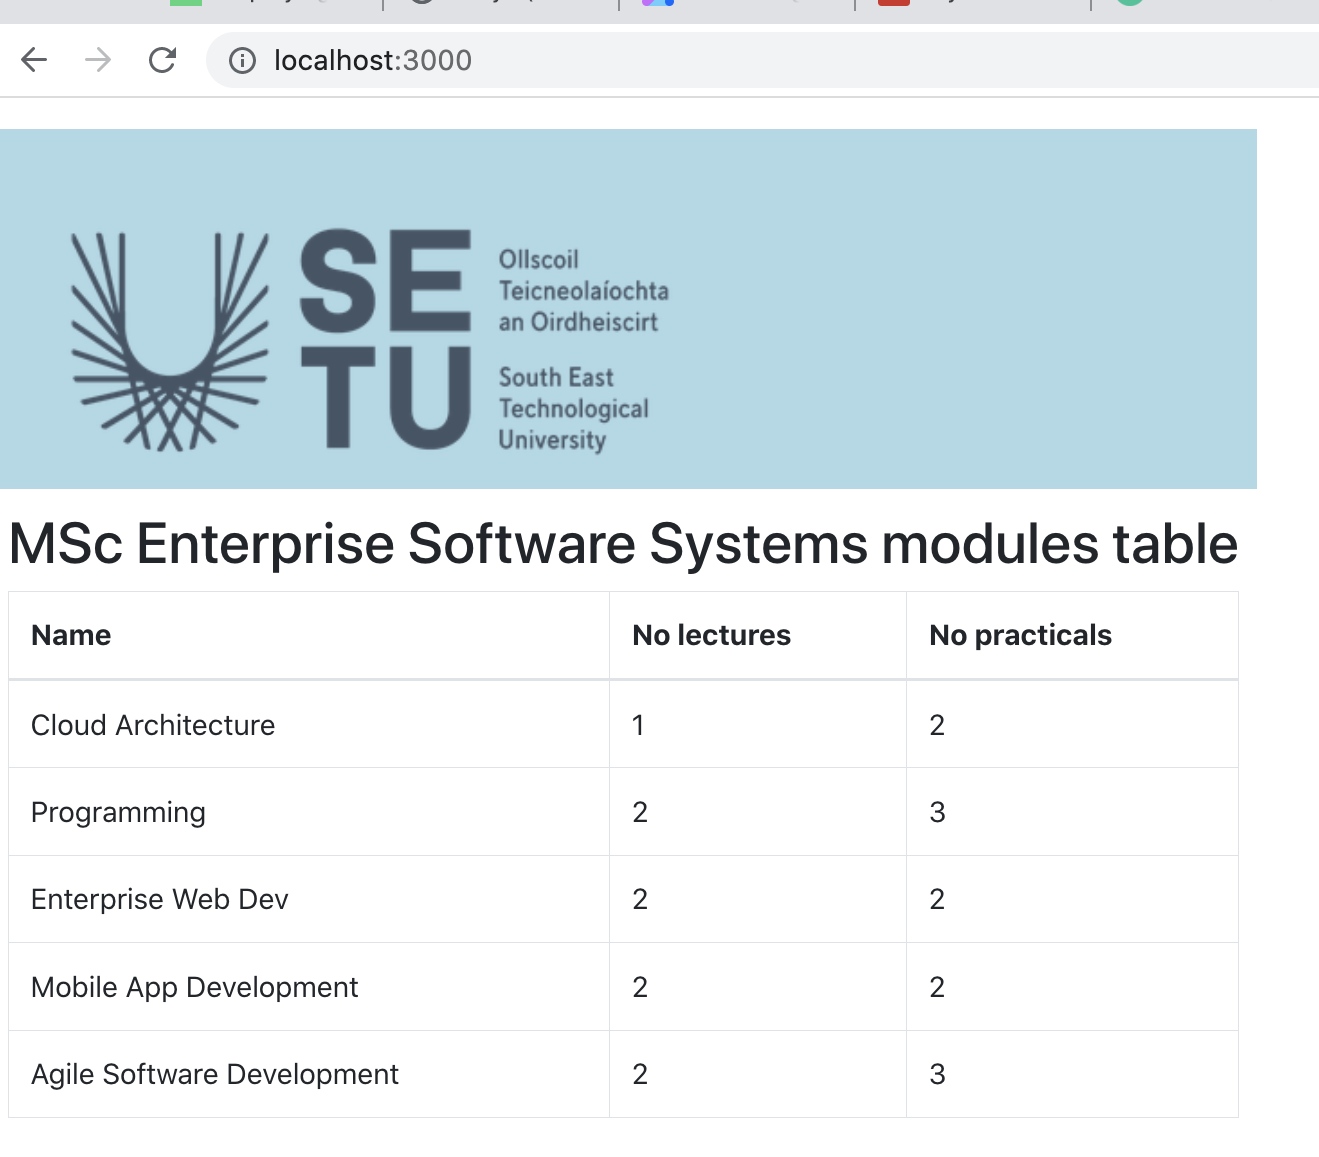
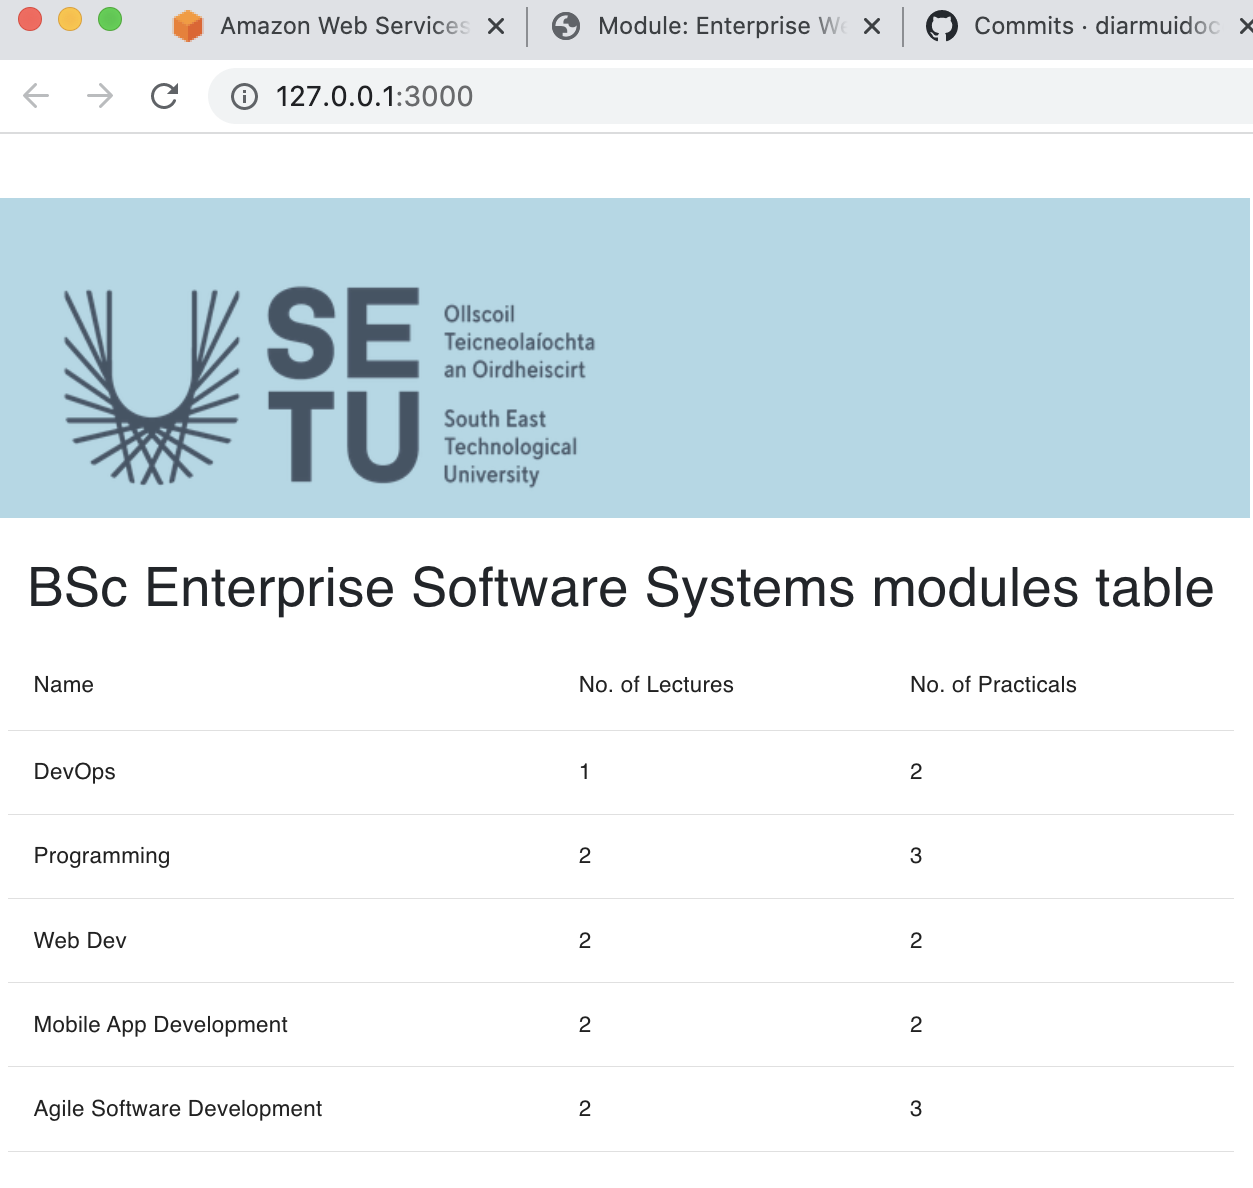
Fix labs for week 1

diff --git a/topic01/book-2/03.02.md b/topic01/book-2/03.02.md
@@ -8,10 +8,10 @@ import "./App.css";
 import setuCrest from "./assets/setu_crest.png";
 
 const App = () => {
-  // Substitute your module names here.
+  // Substitute your module names here (Optional).
   const modules = [
     {
-      name: "Cloud Architecture",
+      name: "DevOps",
       noLectures: 1,
       noPracticals: 2,
     },
@@ -21,7 +21,7 @@ const App = () => {
       noPracticals: 3,
     },
     {
-      name: "Enterprise Web Dev",
+      name: "Web Dev",
       noLectures: 2,
       noPracticals: 2,
     },
@@ -36,7 +36,7 @@ const App = () => {
       noPracticals: 3,
     },
   ];
-  const name = "MSc Enterprise Software Systems"; // Substitute
+  const name = "BSc Enterprise Software Systems"; // Substitute
 
   return (
     <>

diff --git a/topic01/book-2/07.07.md b/topic01/book-2/07.07.md
@@ -32,7 +32,7 @@ const styles = {
 const App = () => {
   const modules = [
     {
-      name: "Cloud Architecture",
+      name: "DevOps",
       noLectures: 1,
       noPracticals: 2,
     },
@@ -42,7 +42,7 @@ const App = () => {
       noPracticals: 3,
     },
     {
-      name: "Enterprise Web Dev",
+      name: "Web Dev",
       noLectures: 2,
       noPracticals: 2,
     },
@@ -57,7 +57,7 @@ const App = () => {
       noPracticals: 3,
     },
   ];
-const name = "MSc Enterprise Software Systems"; // Substitute
+const name = "BSc Enterprise Software Systems"; // Substitute
 
   return (
     <>
